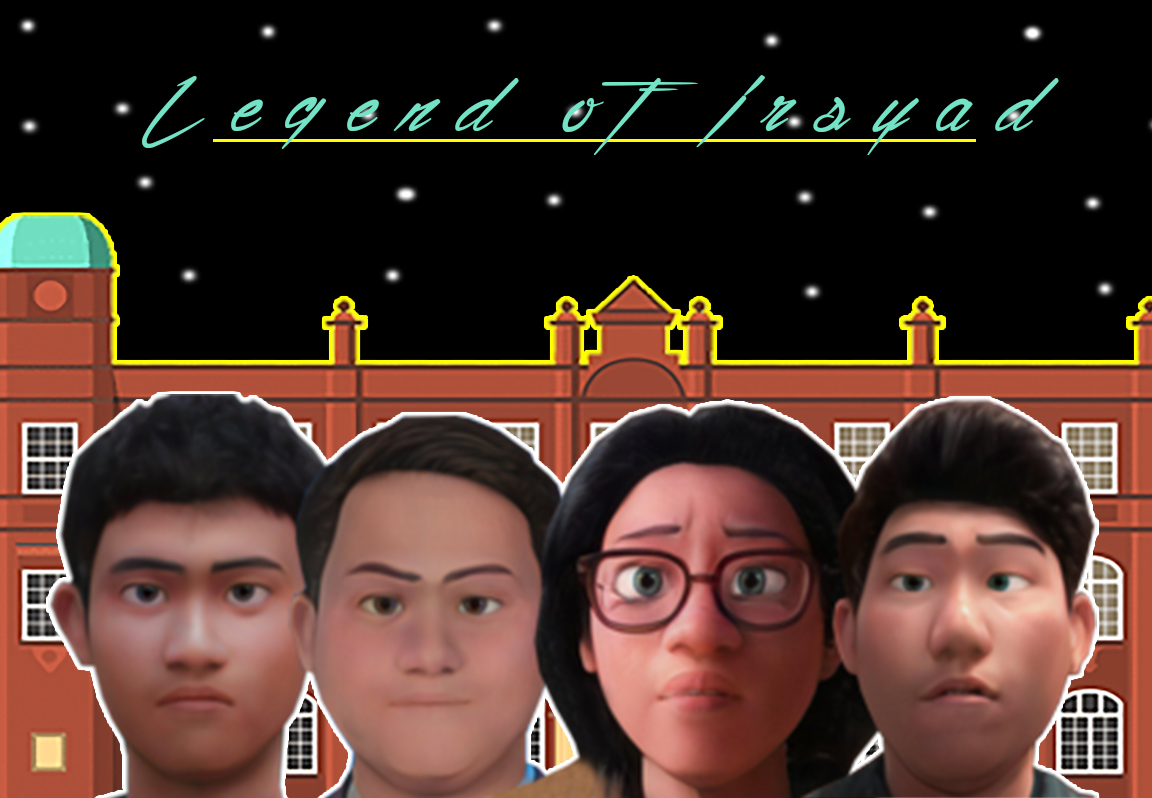
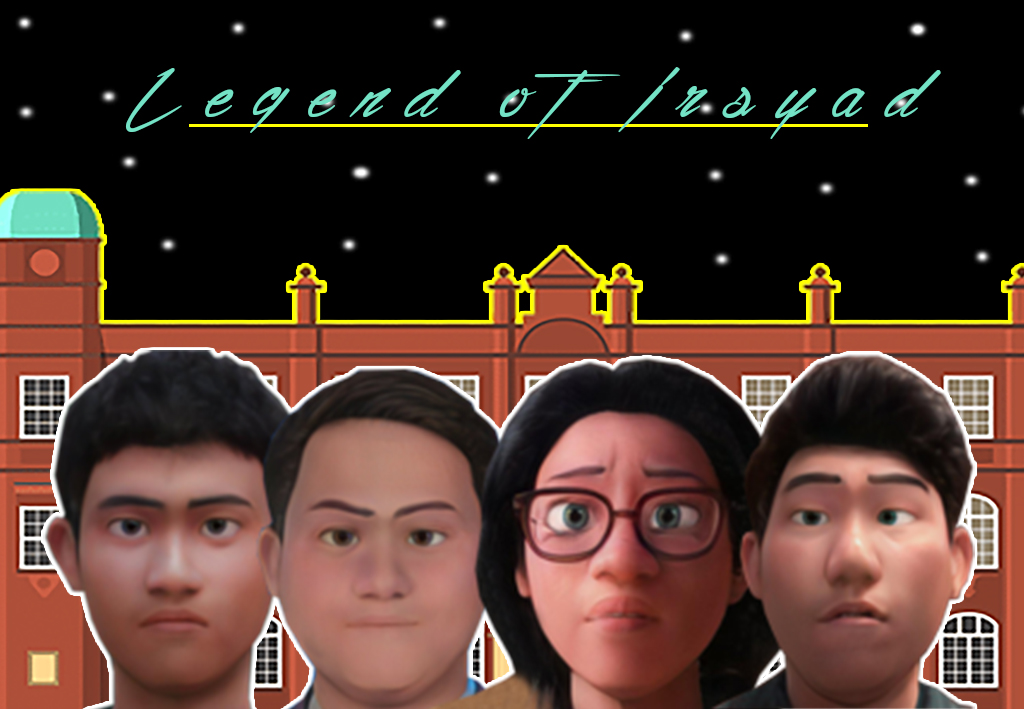
Ahmad Jibril Muayyad

diff --git a/VisualNovel - Strukdat/src/VisualNovel.java b/VisualNovel - Strukdat/src/VisualNovel.java
@@ -50,7 +50,7 @@ public class VisualNovel {
 
 		picture = new ImageIcon(this.getClass().getResource("/Legend.jpg"));
 		pictureLabel = new JLabel(picture);
-		pictureLabel.setSize(1152, 798);
+		pictureLabel.setSize(1024, 709);
 
 		startButtonPanel = new JPanel(new BorderLayout());
 		startButtonPanel.setBounds(755, 250, 200, 100);
@@ -260,6 +260,7 @@ public class VisualNovel {
 	}
 
 	public static void main(String[] args) {
+		System.out.print("coba");
 		new VisualNovel();
 	}
 
